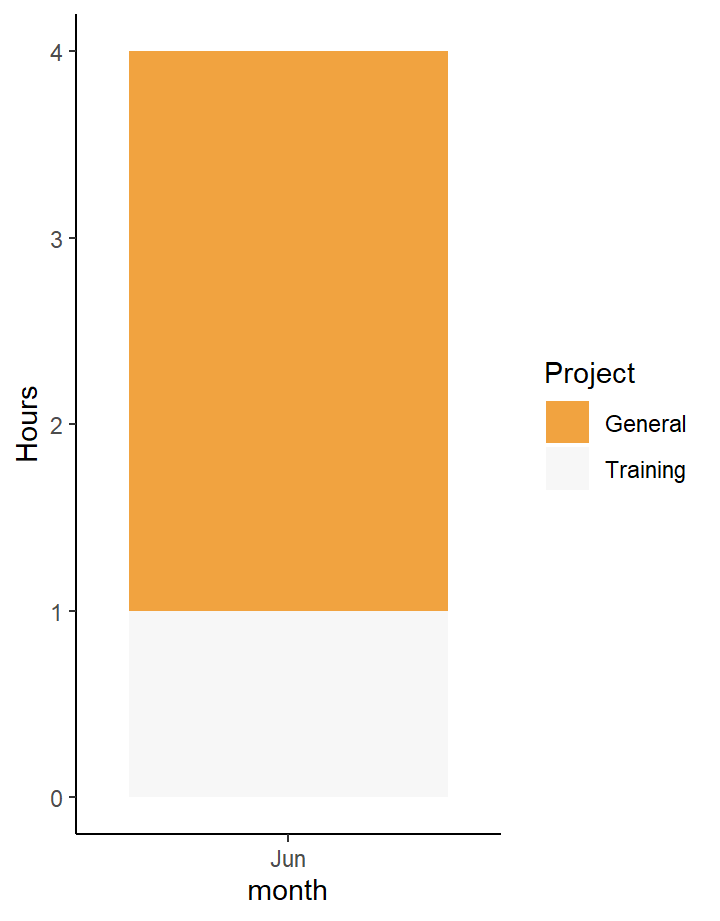
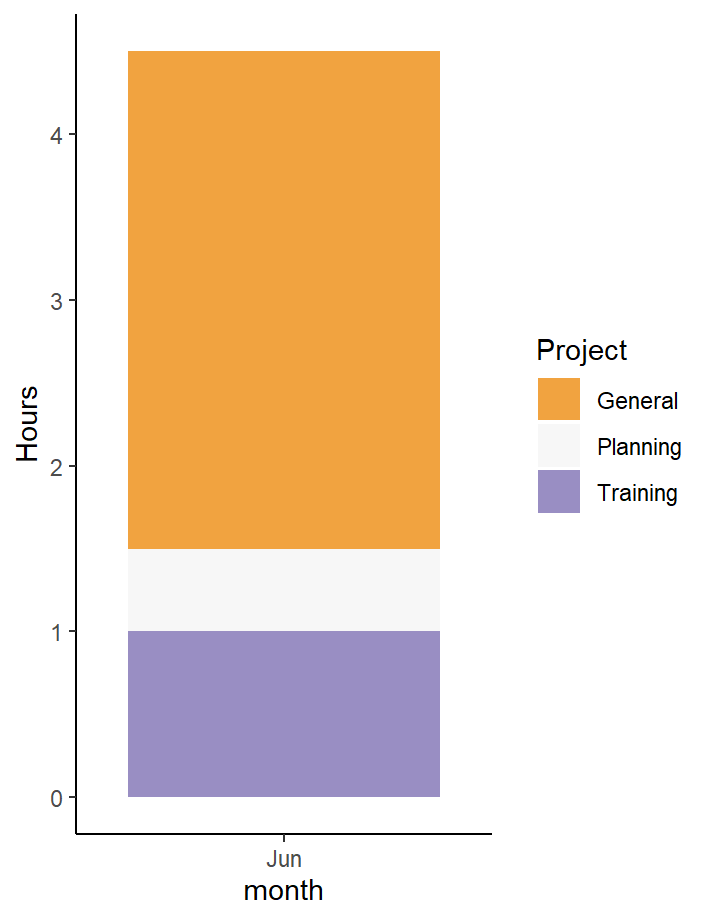
knit

diff --git a/docs/index.html b/docs/index.html
@@ -1906,22 +1906,27 @@ class="section level3">
 <tr class="odd">
 <td align="left">General</td>
 <td align="left">Jennet &amp; Amanda - Meeting to touch base</td>
-<td align="right">1</td>
+<td align="right">1.0</td>
 </tr>
 <tr class="even">
 <td align="left">General</td>
 <td align="left">Setup wuo Staff Account / HR Setup / Payroll Setup</td>
-<td align="right">1</td>
+<td align="right">1.0</td>
 </tr>
 <tr class="odd">
 <td align="left">General</td>
 <td align="left">Build Time Tracking Tool</td>
-<td align="right">1</td>
+<td align="right">1.0</td>
 </tr>
 <tr class="even">
 <td align="left">Training</td>
 <td align="left">Lawson SOP training module</td>
-<td align="right">1</td>
+<td align="right">1.0</td>
+</tr>
+<tr class="odd">
+<td align="left">Planning</td>
+<td align="left">Writing out meeting notes / plans</td>
+<td align="right">0.5</td>
 </tr>
 </tbody>
 </table>
